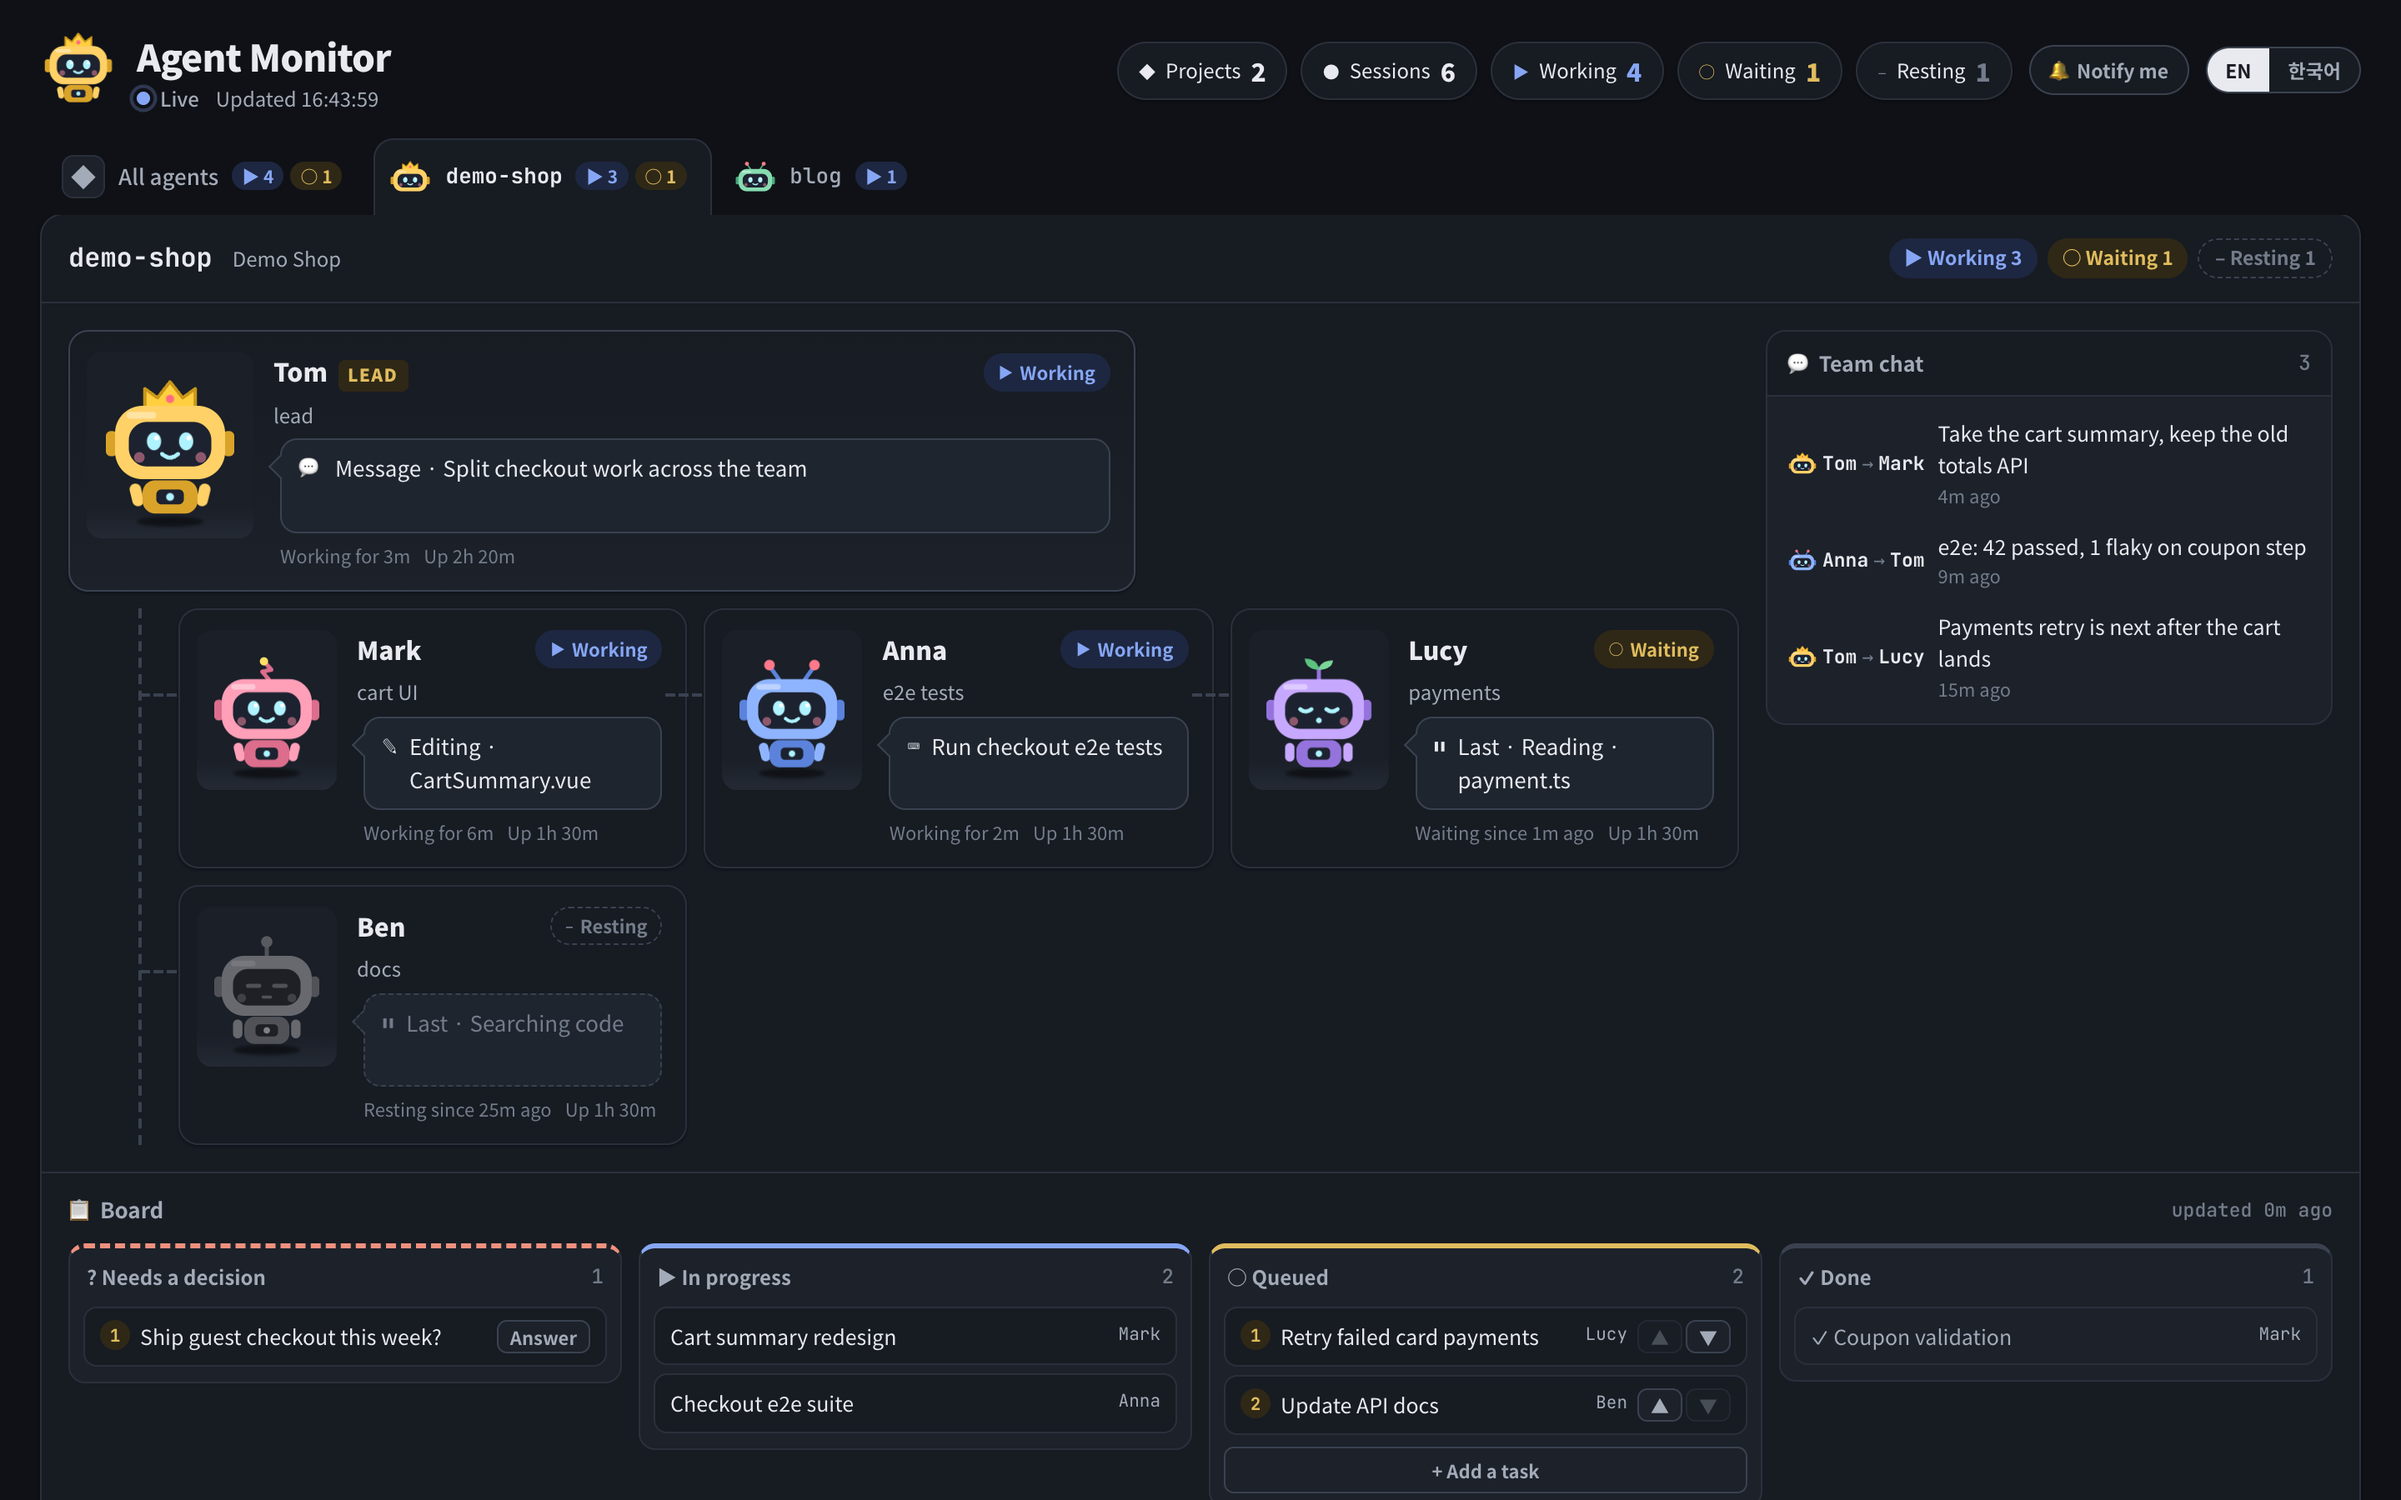
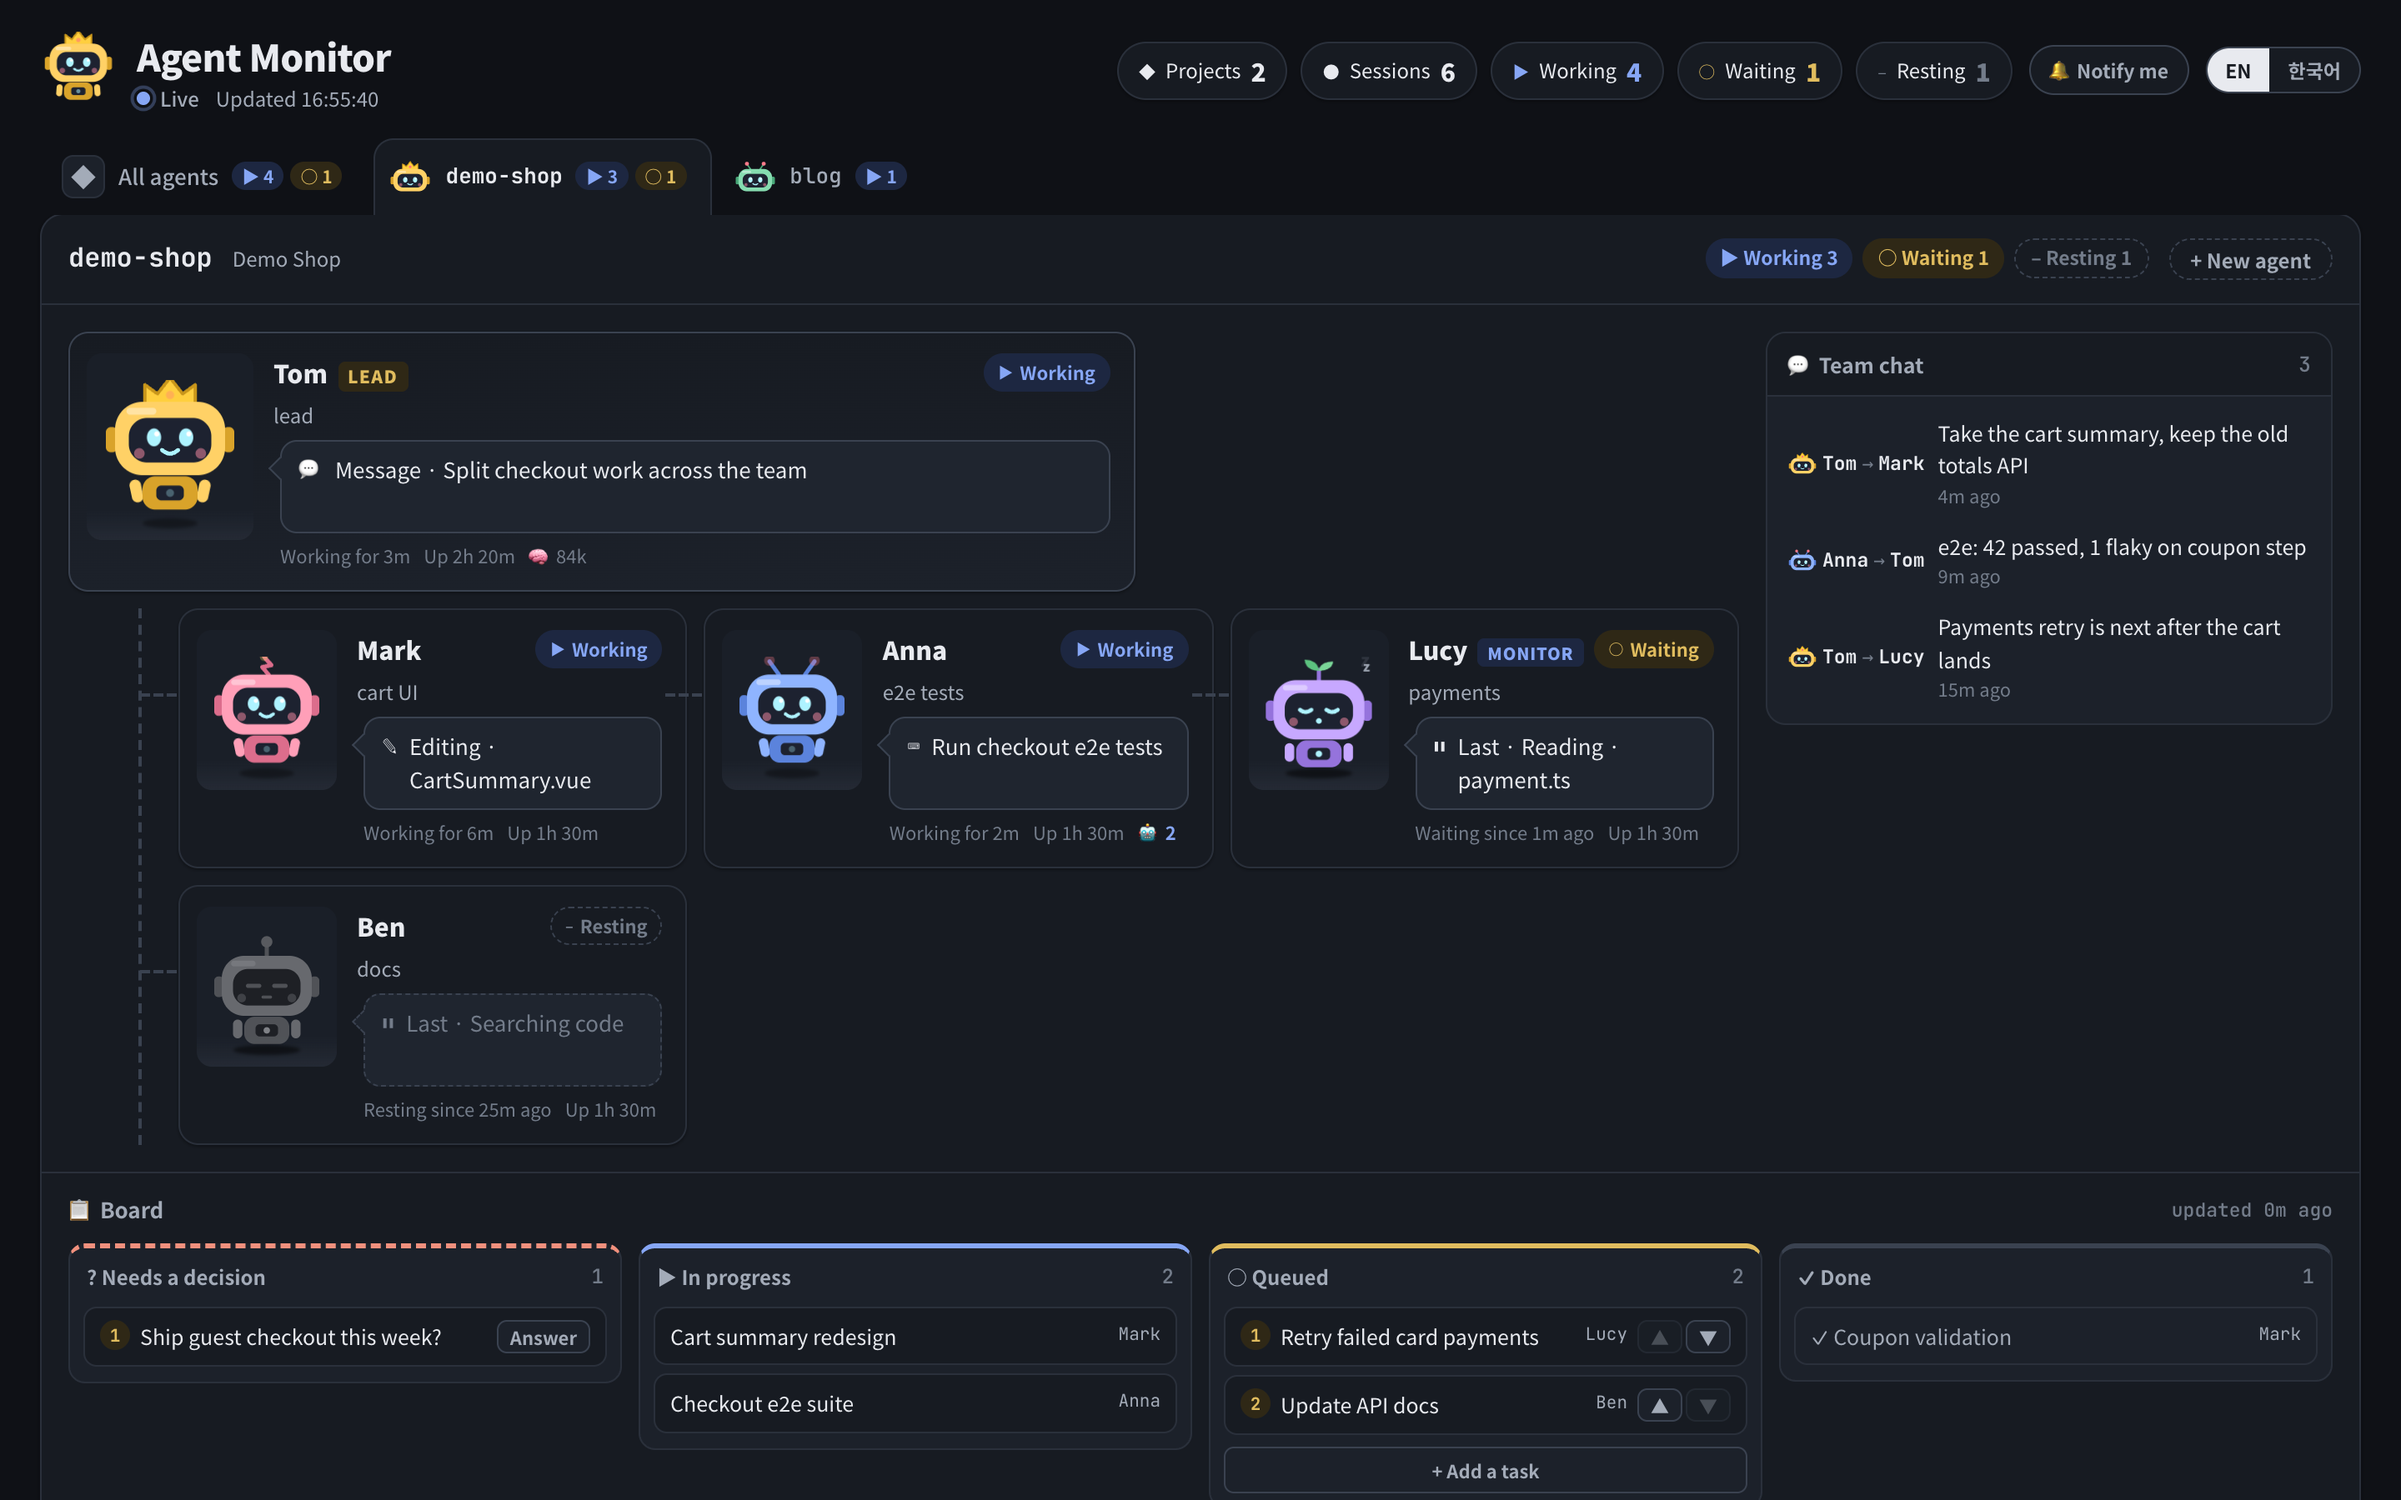
[Docs] Retake the README screenshot on the current page
It now shows the New agent button, an agent the monitor runs and the subagent count. Still made-up demo data.

diff --git a/README.md b/README.md
@@ -3,7 +3,7 @@
 A local dashboard for every Claude Code session running on this machine, grouped as
 **project → leader → agents**. No dependencies (Node 18+), read-only, listens on `127.0.0.1` only.
 
-![The dashboard: a leader robot with four agents below it, team chat on the right and the task board at the bottom](docs/screenshot.png)
+![The dashboard: a leader robot with four agents below it (one run by the monitor, one with subagents at work), team chat on the right and the task board at the bottom](docs/screenshot.png)
 
 <sub>Demo data: the project, names and tasks are made up.</sub>
 
